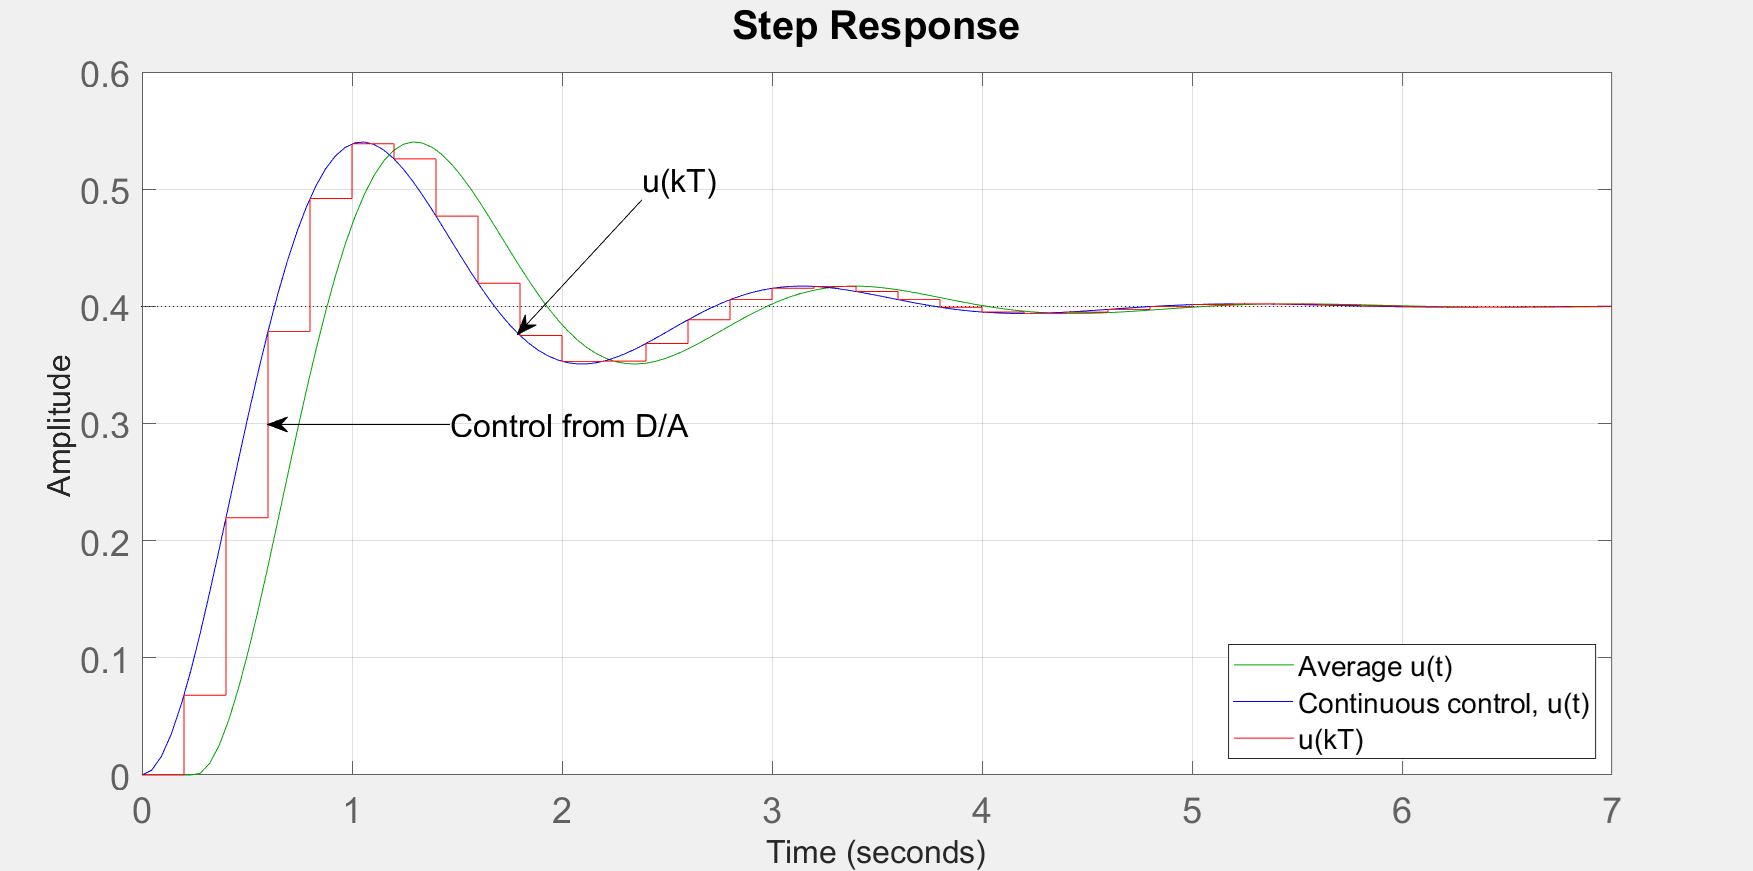
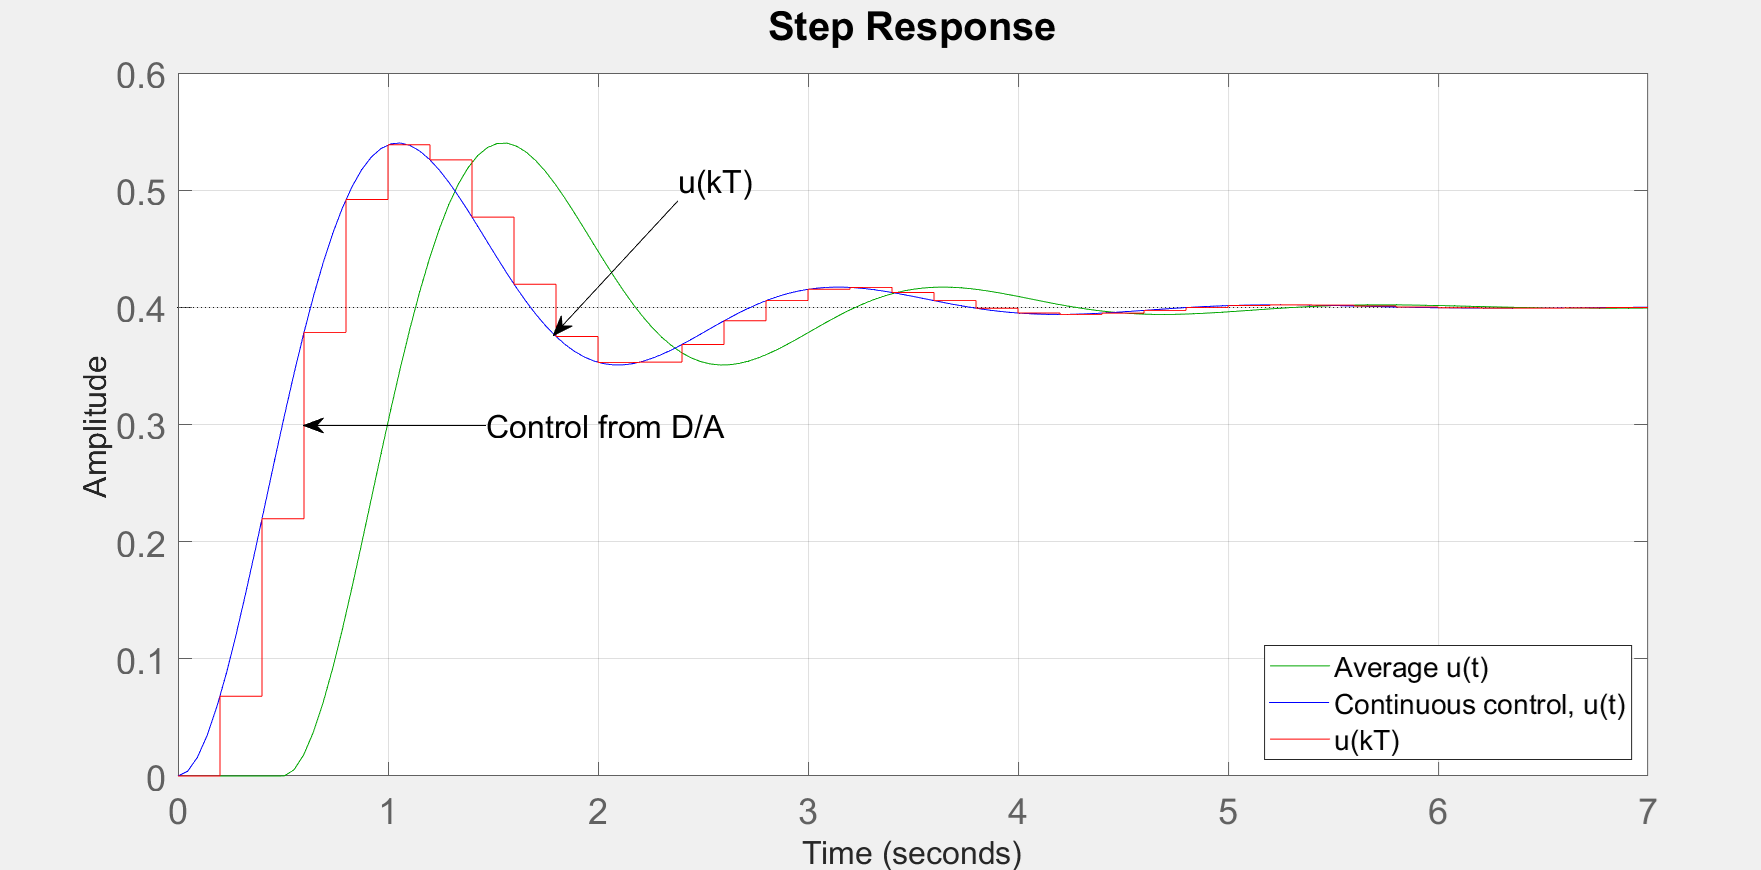
changes

diff --git a/matlab_scripts/fig_digial_delay.m b/matlab_scripts/fig_digial_delay.m
@@ -2,7 +2,7 @@ clear all
 close
 fig = figure();
 sys = tf(4,[1 2 10]);
-sys1 = tf(4,[1 2 10],'IODelay',0.25);
+sys1 = tf(4,[1 2 10],'IODelay',0.5);
 Hd = c2d(sys,0.2);
 step(sys1,'g',sys,'b',Hd,'r');
 lgd = legend('Average u(t)','Continuous control, u(t)', 'u(kT)', 'Location','SouthEast');
